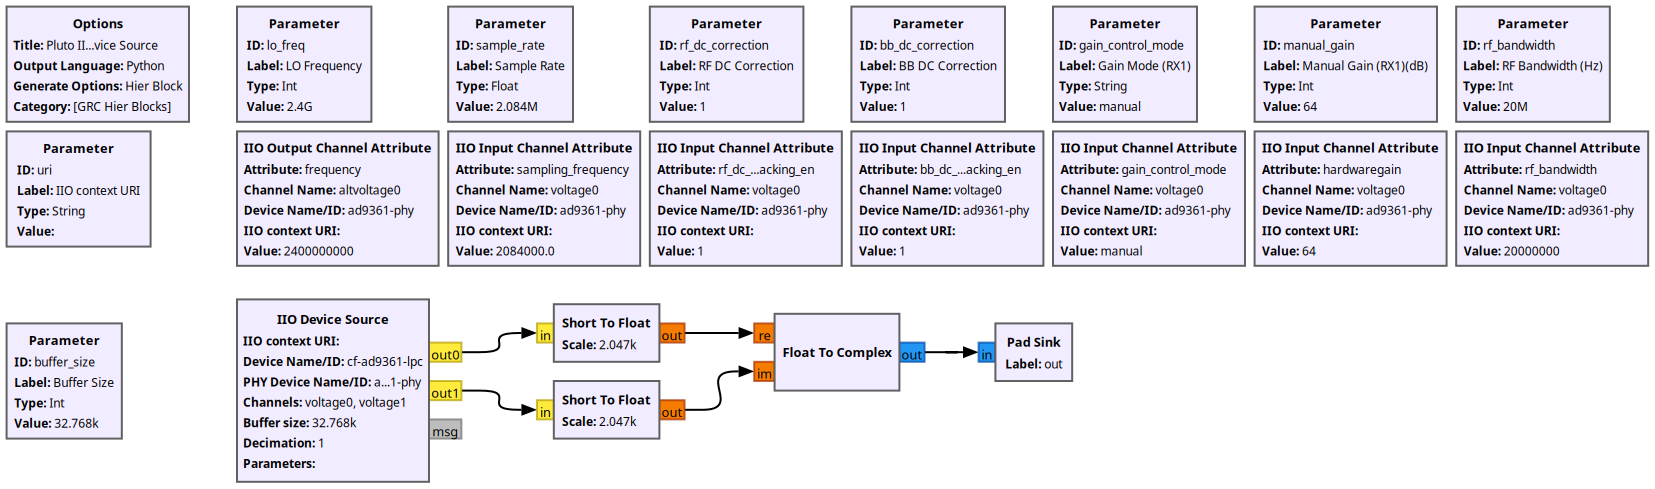
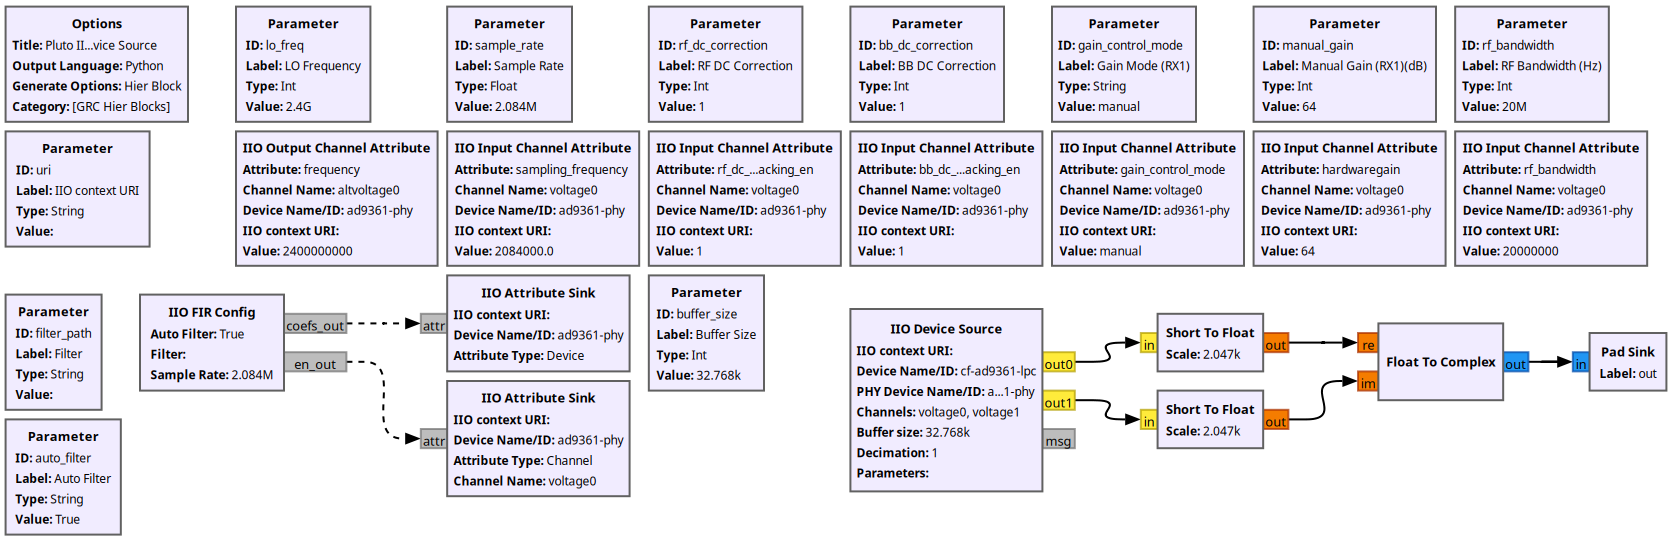
Saving work

Changed region(s): [[0.0, 0.0, 1.0, 1.0], [0.832, 0.7362, 0.8937, 0.7669]]

diff --git a/2/lab_report.tex b/2/lab_report.tex
@@ -259,15 +259,15 @@ In this experiment, we performed a loopback test using the generic IIO blocks sh
 	\label{fig::iio_input_channel_attribute}
 \end{figure}
 
-The PlutoSDR Source and Sink blocks also leverage a programmable FIR. This programmable FIR requires a file to be written to the \texttt{filter\_fir\_config} attribute of the \texttt{ad9361-phy} device with an IIO Attribute Sink. Then, after loading the filter, the \texttt{filter\_fir\_en} attribute needs to be written to the \texttt{voltage0} channel. I created a custom python block to create both of the messages and coordinate the timing of both messages. I then wrapped the custom block in a hierarchy block, to leverage the same code for the source and sink. The resulting hierarchy block is shown in Figure \ref{fig::iio_fir_config}.
+The PlutoSDR Source and Sink blocks also leverage a programmable FIR. This programmable FIR requires a file to be written to the \texttt{filter\_fir\_config} attribute of the \texttt{ad9361-phy} device with an IIO Attribute Sink. Then, after loading the filter, the \texttt{filter\_fir\_en} attribute needs to be written to the \texttt{voltage0} channel. I created a custom python block to create both of the messages and coordinate their timing. I then wrapped the custom block in another hierarchy block, so I could easily leverage it in both the source and sink blocks. The resulting hierarchy block is shown in Figure \ref{fig::iio_fir_config}.
 
 \begin{figure}[H]
 	\centerline{\fbox{\includegraphics[width=0.5\textwidth]{iio_fir_config.png}}}
-	\caption{Hierarchy Block to Setup the Programmable FIR with IIO Attribute Writes}
+	\caption{Hierarchy Block which Create Messages  to Configure the Programmable FIR}
 	\label{fig::iio_fir_config}
 \end{figure}
 
-I then created an additional hierarchy blocks to function as the Pluto Source and Sink. These hierarchy blocks are shown in Figure \ref{fig::pluto_iio_device_source} and Figure \ref{fig::pluto_iio_device_sink}.
+Using the previously described hierarchy blocks, I created an additional layer of hierarchy blocks to function as the Pluto Source and Sink. These hierarchy blocks are shown in Figure \ref{fig::pluto_iio_device_source} and Figure \ref{fig::pluto_iio_device_sink}.
 
 \begin{figure}[H]
 	\centerline{\fbox{\includegraphics[width=0.9\textwidth]{pluto_iio_device_source.png}}}
@@ -276,12 +276,12 @@ I then created an additional hierarchy blocks to function as the Pluto Source an
 \end{figure}
 
 \begin{figure}[H]
-	\centerline{\fbox{\includegraphics[width=0.8\textwidth]{pluto_iio_device_sink.png}}}
+	\centerline{\fbox{\includegraphics[width=0.9\textwidth]{pluto_iio_device_sink.png}}}
 	\caption{Hierarchy Block which Functions as Pluto Sink}
 	\label{fig::pluto_iio_device_sink}
 \end{figure}
 
-Both the source and sink hierarchy blocks use multiple IIO Channel Attribute blocks, described by Figure \ref{fig::iio_input_channel_attribute}, to set block parameters. Each of these blocks get the same arguments as the \texttt{iio\_attr} command. The source block uses an IIO device source to grab buffers of samples from the ADC. These samples are then scaled and convert to a complex float for processing. In a similar manner, the sink block converts comnplex floats to complex shorts. Then, it uses an IIO device sink to push buffers of samples to the DAC. 
+Both the hierarchy blocks shown above use IIO Channel Attribute blocks to set block parameters. Each of the IIO Channel Attribute blocks get the same arguments as the \texttt{iio\_attr} command. They also leverage  IIO FIR Configuration blocks to configure the programmable FIR. The source block uses an IIO device source to grab buffers of samples from the ADC. These samples are then scaled and convert to a complex float for processing. In a similar manner, the sink block converts comnplex floats to complex shorts. Then, it uses an IIO device sink to push buffers of samples to the DAC. 
 
 \section{Conclusion}
 % Conclusions to the overall lab that discuss meaningful lessons learned and other takeaways from the assignment. (Important)
